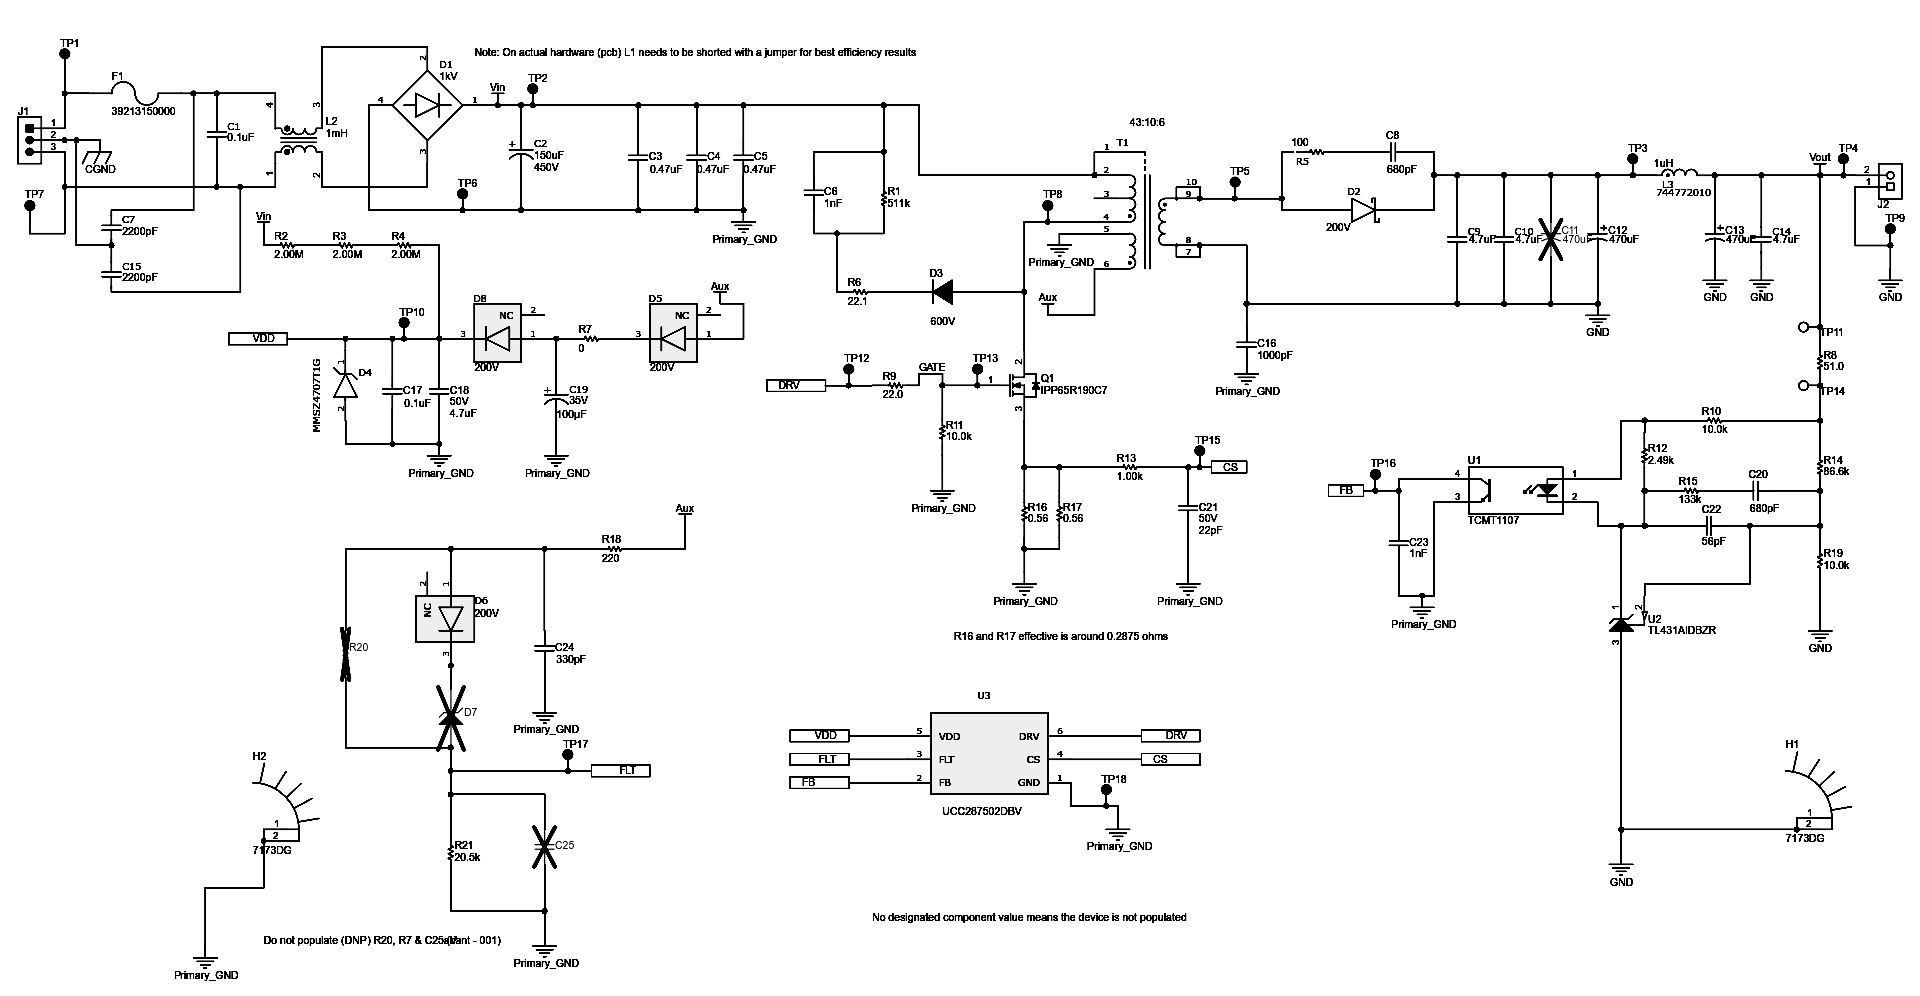
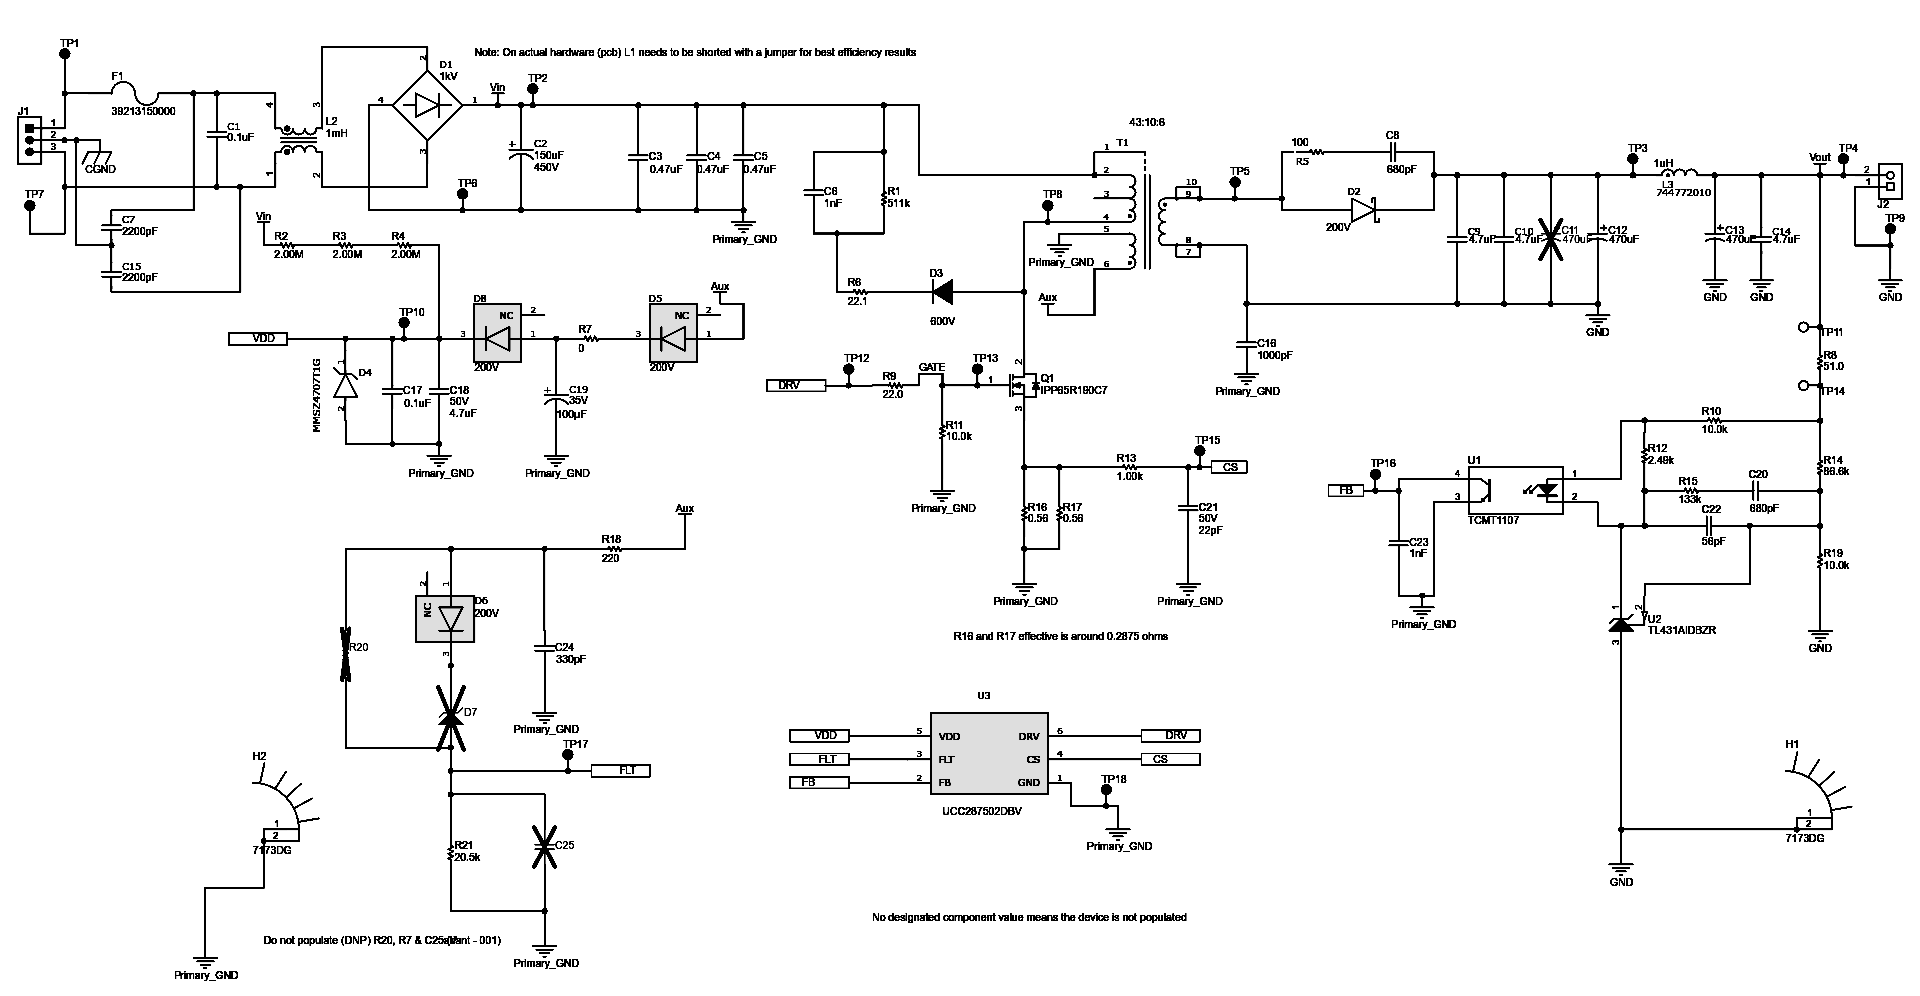
Generate .scud for low-voltage-power-supply

diff --git a/low-voltage-power-supply/Workspace/low-voltage-power-supply.tsx b/low-voltage-power-supply/Workspace/low-voltage-power-supply.tsx
@@ -1,0 +1,189 @@
+import { UCC287506DBVR } from "./imports/UCC287506DBVR"
+import { CSD19532KTT } from "./imports/CSD19532KTT"
+import { LTV_817S_TA1_C } from "./imports/LTV_817S_TA1_C"
+import { MBR1060CT } from "./imports/MBR1060CT"
+import { TL431ACDBZR } from "./imports/TL431ACDBZR"
+import { TPS62130RGTR } from "./imports/TPS62130RGTR"
+import { TPS62133RGTR } from "./imports/TPS62133RGTR"
+
+export const LowVoltagePowerSupply = () => {
+  return (
+    <group name="LVPS">
+      {/* Input Stage */}
+      <port name="VIN_AUX" direction="in" />
+      <port name="VIN_LVBUS" direction="in" />
+      <port name="CHASSIS_GND" direction="in" />
+
+      {/* Output Rails */}
+      <port name="SYS_12V" direction="out" />
+      <port name="SYS_5V" direction="out" />
+      <port name="SYS_3_3V" direction="out" />
+      <port name="SYS_1_2V" direction="out" />
+      <port name="ISO_GND" direction="out" />
+
+      {/* Input OR-ing Diodes */}
+      <diode name="D_or_aux" pcbId="D1" />
+      <diode name="D_or_bus" pcbId="D2" />
+
+      {/* Reverse Polarity Protection (P-MOSFET) */}
+      <chip
+        name="Q_rev"
+        pcbId="Q2"
+        manufacturerPartNumber="Generic-P-MOSFET"
+        pinLabels={{ pin1: "G", pin2: "D", pin3: "S" }}
+      />
+      <resistor name="R_rev_g" resistance="10k" pcbId="R_rev_g" />
+      <net name="Q_REV_G" pins={["Q_rev.pin1", "R_rev_g.pin1"]} />
+      <net name="PGND_REF" pins={["R_rev_g.pin2", "PGND"]} />
+      
+      <capacitor name="C_in_bulk1" capacity="220uF" voltage="100V" pcbId="C9" />
+      <capacitor name="C_in_bulk2" capacity="220uF" voltage="100V" pcbId="C10" />
+      
+      {/* 12V-to-18V Charge Pump (for Start-up from 12V Aux) */}
+      <component
+        name="U_cp"
+        pcbId="U10"
+        manufacturerPartNumber="Charge-Pump-12to18-Discrete"
+        pinLabels={{ vin: "VIN", vout: "VOUT", gnd: "GND" }}
+      />
+      <diode name="D_cp" pcbId="D10" />
+
+      {/* 64V Start-up Resistor */}
+      <resistor name="R_start" resistance="100k" pcbId="R_start" />
+      <diode name="D_start" pcbId="D11" />
+
+      {/* Flyback Controller */}
+      <UCC287506DBVR name="U1" pcbId="U1" />
+      <capacitor name="C_vdd" capacity="10uF" voltage="25V" pcbId="C_vdd" />
+      
+      {/* Brownout Sensing (9.0V threshold) */}
+      <resistor name="R_flt_up" resistance="100k" pcbId="R21" />
+      <resistor name="R_flt_low" resistance="10k" pcbId="R22" />
+      
+      {/* Primary Switch */}
+      <CSD19532KTT name="Q1" pcbId="Q1" />
+      <resistor name="R_gate" resistance="10" pcbId="R11" />
+      
+      {/* Current Sense */}
+      <resistor name="R_cs1" resistance="0.1" pcbId="R12" />
+      <resistor name="R_cs2" resistance="0.1" pcbId="R13" />
+
+      {/* Transformer T1 (PQ2620, 1:1.2) */}
+      <component
+        name="T1"
+        pcbId="T1"
+        manufacturerPartNumber="Custom-Flyback-PQ2620"
+        pinLabels={{
+          pin1: "PRI_DOT",
+          pin2: "PRI",
+          pin3: "SEC_DOT",
+          pin4: "SEC"
+        }}
+      />
+
+      {/* Secondary Rectifier */}
+      <MBR1060CT name="D4" pcbId="D4" />
+      <capacitor name="C_out12v" capacity="470uF" voltage="25V" pcbId="C15" />
+
+      {/* Feedback Isolation */}
+      <LTV_817S_TA1_C name="U2" pcbId="U2" />
+      <TL431ACDBZR name="U3" pcbId="U3" />
+
+      {/* SSR Feedback Resistors (12.0V target) */}
+      <resistor name="R_up" resistance="38.3k" tolerance="0.1%" pcbId="R_up" />
+      <resistor name="R_low" resistance="10k" tolerance="0.1%" pcbId="R_low" />
+
+      {/* Post Regulators (Bucks) */}
+      <TPS62130RGTR name="U4" pcbId="U4" /> {/* 12V to 5V */}
+      <inductor name="L1" inductance="2.2uH" pcbId="L1" />
+      <resistor name="R_u4_up" resistance="400k" pcbId="R_u4_up" />
+      <resistor name="R_u4_low" resistance="75k" pcbId="R_u4_low" />
+      <capacitor name="C_out5v" capacity="47uF" pcbId="C16" />
+      
+      <TPS62130RGTR name="U5" pcbId="U5" /> {/* 12V to 3.3V */}
+      <inductor name="L2" inductance="2.2uH" pcbId="L2" />
+      <resistor name="R_u5_up" resistance="400k" pcbId="R_u5_up" />
+      <resistor name="R_u5_low" resistance="120k" pcbId="R_u5_low" />
+      <capacitor name="C_out3v3" capacity="47uF" pcbId="C17" />
+
+      <TPS62133RGTR name="U6" pcbId="U6" /> {/* 5V to 1.2V */}
+      <inductor name="L3" inductance="2.2uH" pcbId="L3" />
+      <capacitor name="C_out1v2" capacity="47uF" pcbId="C18" />
+
+      {/* Connectivity */}
+      
+      {/* Input Stage Connectivity */}
+      <net name="VIN_AUX_CONN" pins={["VIN_AUX", "D_or_aux.pin1", "U_cp.vin", "R_flt_up.pin1"]} />
+      <net name="VIN_BUS_CONN" pins={["VIN_LVBUS", "D_or_bus.pin1", "R_start.pin1"]} />
+      <net name="V_IN_OR" pins={["D_or_aux.pin2", "D_or_bus.pin2", "Q_rev.pin3"]} />
+      <net name="VIN_PROT" pins={["Q_rev.pin2", "C_in_bulk1.pin1", "C_in_bulk2.pin1", "T1.pin1"]} />
+      
+      {/* Start-up Logic */}
+      <net name="R_START_OUT" pins={["R_start.pin2", "D_start.pin1"]} />
+      <net name="CP_OUT" pins={["U_cp.vout", "D_cp.pin1"]} />
+      <net name="U1_VDD_NET" pins={["D_start.pin2", "D_cp.pin2", "U1.pin5", "C_vdd.pin1"]} />
+
+      {/* Brownout Sensing */}
+      <net name="U1_FLT_DIV" pins={["R_flt_up.pin2", "R_flt_low.pin1", "U1.pin3"]} />
+
+      {/* Primary Side Power Stage */}
+      <net name="U1_DRV" pins={["U1.pin6", "R_gate.pin1"]} />
+      <net name="Q1_G" pins={["R_gate.pin2", "Q1.pin1"]} />
+      <net name="SW_NODE" pins={["Q1.pin2", "T1.pin2"]} />
+      <net name="CS_NET" pins={["Q1.pin3", "R_cs1.pin1", "R_cs2.pin1", "U1.pin4"]} />
+      
+      {/* Primary Ground Net */}
+      <net name="PGND" pins={[
+        "R_cs1.pin2", "R_cs2.pin2", 
+        "U1.pin1", 
+        "CHASSIS_GND", 
+        "C_in_bulk1.pin2", "C_in_bulk2.pin2", 
+        "C_vdd.pin2",
+        "U_cp.gnd",
+        "R_flt_low.pin2",
+        "U2.pin3",
+        "R_rev_g.pin2"
+      ]} />
+      <net name="Q_REV_G" pins={["Q_rev.pin1", "R_rev_g.pin1"]} />
+
+      {/* Feedback to U1 */}
+      <net name="U1_FB" pins={["U1.pin2", "U2.pin4"]} />
+
+      {/* Secondary Side Power Stage */}
+      <net name="SEC_SW" pins={["T1.pin3", "D4.pin1", "D4.pin3"]} />
+      <net name="SYS_12V_NET" pins={["D4.pin2", "C_out12v.pin1", "R_up.pin1", "U2.pin1", "U4.pin10", "U4.pin11", "U4.pin12", "U4.pin13", "U5.pin10", "U5.pin11", "U5.pin12", "U5.pin13", "SYS_12V"]} />
+      
+      {/* Buck 1 (5V) */}
+      <net name="U4_SW" pins={["U4.pin1", "U4.pin2", "U4.pin3", "L1.pin1"]} />
+      <net name="SYS_5V_NET" pins={["L1.pin2", "C_out5v.pin1", "R_u4_up.pin1", "U6.pin10", "U6.pin11", "U6.pin12", "U6.pin13", "U4.pin14", "SYS_5V"]} />
+      <net name="U4_FB" pins={["R_u4_up.pin2", "R_u4_low.pin1", "U4.pin5"]} />
+
+      {/* Buck 2 (3.3V) */}
+      <net name="U5_SW" pins={["U5.pin1", "U5.pin2", "U5.pin3", "L2.pin1"]} />
+      <net name="SYS_3_3V_NET" pins={["L2.pin2", "C_out3v3.pin1", "R_u5_up.pin1", "U5.pin14", "SYS_3_3V"]} />
+      <net name="U5_FB" pins={["R_u5_up.pin2", "R_u5_low.pin1", "U5.pin5"]} />
+
+      {/* Buck 3 (1.2V) */}
+      <net name="U6_SW" pins={["U6.pin1", "U6.pin2", "U6.pin3", "L3.pin1"]} />
+      <net name="SYS_1_2V_NET" pins={["L3.pin2", "C_out1v2.pin1", "U6.pin14", "SYS_1_2V"]} />
+
+      {/* TL431 Feedback */}
+      <net name="FB_DIV" pins={["R_up.pin2", "R_low.pin1", "U3.pin2"]} />
+      <net name="TL431_CATH" pins={["U3.pin1", "U2.pin2"]} />
+      
+      {/* Isolated Ground Net */}
+      <net name="ISOGND" pins={[
+        "T1.pin4", 
+        "C_out12v.pin2", 
+        "R_low.pin2", 
+        "U3.pin3", 
+        "ISO_GND",
+        "U4.pin6", "U4.pin15", "U4.pin16", "U4.pin17", "R_u4_low.pin2", "C_out5v.pin2",
+        "U5.pin6", "U5.pin15", "U5.pin16", "U5.pin17", "R_u5_low.pin2", "C_out3v3.pin2",
+        "U6.pin6", "U6.pin15", "U6.pin16", "U6.pin17", "C_out1v2.pin2"
+      ]} />
+
+
+    </group>
+  )
+}